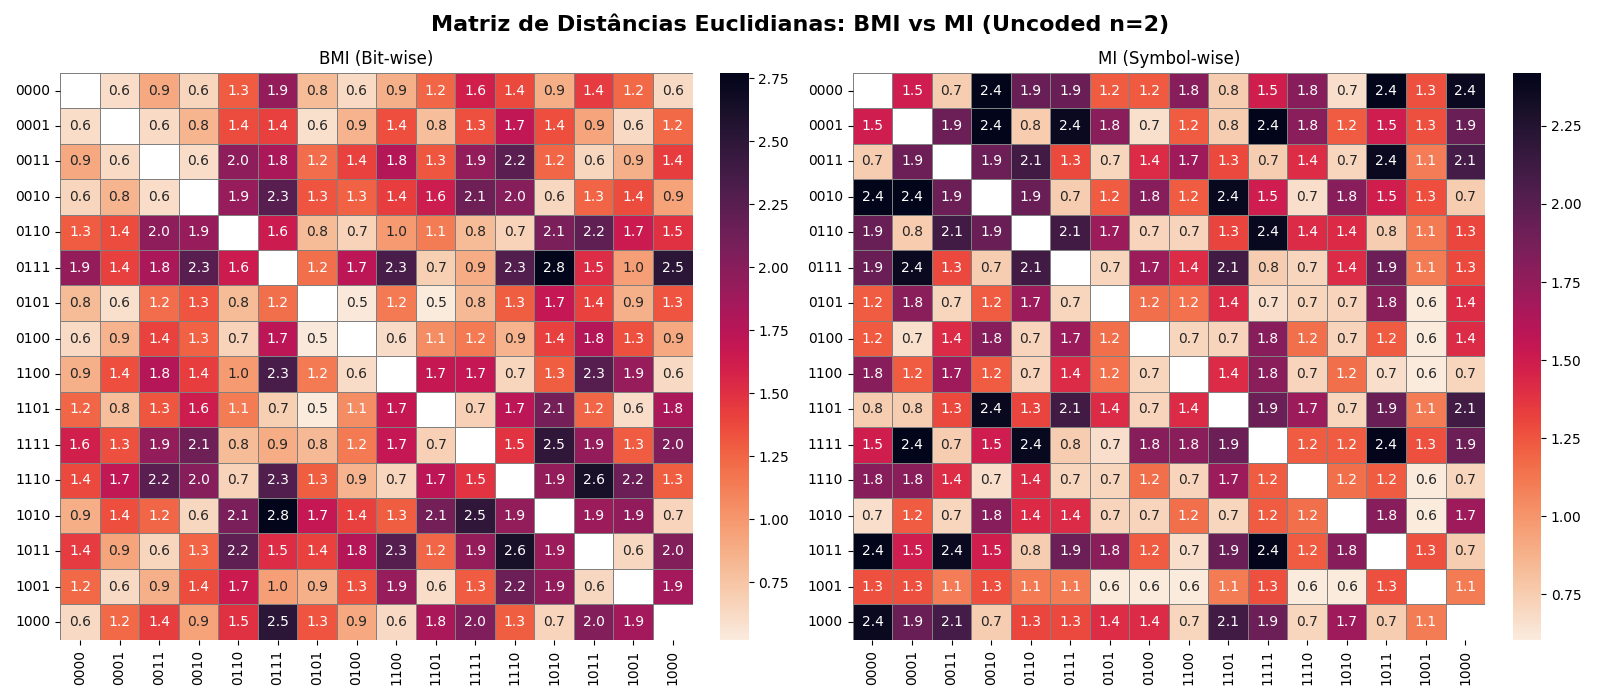
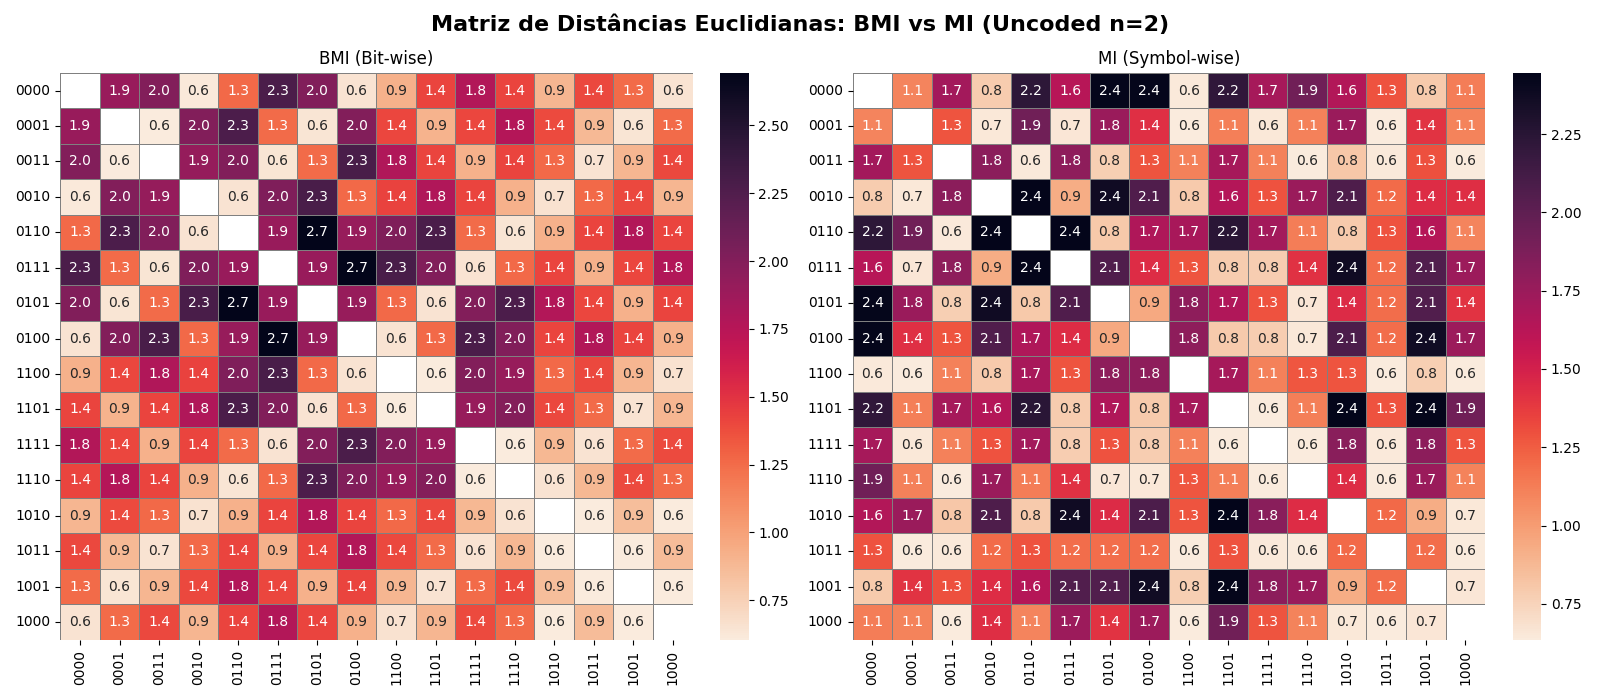
[Test]: Resultados em modelo não condificado.

diff --git a/2.Uncoded/Compare_MI_vs_BMI.py b/2.Uncoded/Compare_MI_vs_BMI.py
@@ -6,8 +6,8 @@ import matplotlib.pyplot as plt
 import tensorflow as tf
 
 
-from libs.val_model import train, recover_weights, aval_model, recover_points_model
-from libs.topology import Net_BMI, Net_MI
+from libs.val_model import recover_weights, aval_model, recover_points_model, train_curriculum
+from libs.topology import Net_Coded
 from libs.model_E2E import End2EndSystem
 from libs.AFF3CT_to_points import txt_to_dict
 
@@ -48,12 +48,12 @@ else:
 # Parâmetros do sistema
 # ============================================================================================ #
 BATCH_SIZE           = 25000
-NUM_TRAINING_ITER    = 8000
+NUM_TRAINING_ITER    = 250000
 
 k           = 4          # Bits de informação por símbolo
 n           = 2          # Dimensões reais do símbolo transmitido (I e Q)
 SNRdb_train = 8.0        # SNR de treinamento (dB)
-ebno_dbs    = np.arange(-4, 15, 1)
+ebno_dbs    = np.arange(-4, 14, 1)
 
 # Defina aqui os melhores valores de 'a' encontrados nos scripts Compare_BMI_FL.py e Compare_MI_FL.py
 # (Exemplo: se descobrir que a=2 é melhor para BMI e a=3 para MI, modifique estas variáveis)
@@ -76,13 +76,13 @@ os.makedirs(FIG_DIR,    exist_ok=True)
 # ============================================================================================ #
 models_info = {
     'BMI': {
-        'net': Net_BMI,
+        'net': Net_Coded,
         'bit_wise': True,
         'a': BEST_A_BMI,
         'label': f'Net_BMI (Bit-wise, a={BEST_A_BMI})'
     },
     'MI': {
-        'net': Net_MI,
+        'net': Net_Coded,
         'bit_wise': False,
         'a': BEST_A_MI,
         'label': f'Net_MI (Symbol-wise, a={BEST_A_MI})'
@@ -105,8 +105,8 @@ for model_name, info in models_info.items():
     is_bit_wise = info['bit_wise']
 
     with strategy.scope():
-        tx = net_topology.transmitter(k)
-        rx = net_topology.receiver(k, a=a)
+        tx = net_topology.encoder(k, n)
+        rx = net_topology.decoder(k, n, a, bmi=is_bit_wise)
 
         model_train = End2EndSystem(k, n, tx, rx, training=True,  bit_wise=is_bit_wise)
         model_eval  = End2EndSystem(k, n, tx, rx, training=False, bit_wise=is_bit_wise)
@@ -115,21 +115,23 @@ for model_name, info in models_info.items():
         lr_schedule = tf.keras.optimizers.schedules.CosineDecay(
             initial_learning_rate=1e-3,
             decay_steps=NUM_TRAINING_ITER,
-            alpha=1e-5   # LR mínima ao final do treino
+            alpha=1e-3   # LR mínima ao final do treino
         )
         optimizer = tf.keras.optimizers.Adam(learning_rate=lr_schedule)
 
         # Treinamento
         if FORCE_RETRAIN or not os.path.exists(local_weights):
-            train(model_train, SNRdb_train, optimizer, NUM_TRAINING_ITER, BATCH_SIZE,
-                local_weights, aval_training=True, steps_for_aval=2500, local_aval=local_aval)
+            train_curriculum(model_train, snr_start=0.0, snr_end=8.0, snr_step=2.0, patience=5000,
+                             optimizer=optimizer, epochs=NUM_TRAINING_ITER, batchs=BATCH_SIZE,
+                             local_weights=local_weights, aval_training=True, steps_for_aval=2500, local_aval=local_aval)
+            #    local_weights, aval_training=True, steps_for_aval=2500, local_aval=local_aval)
 
         # Recupera pesos
         model_eval = recover_weights(model_eval, local_weights)
 
     # Avaliação Monte Carlo
     if FORCE_RETRAIN or not os.path.exists(local_ber_ser):
-        aval_model(model_eval, ebno_dbs, max_iter=750000, block_errors=500,
+        aval_model(model_eval, ebno_dbs, max_iter=150000, block_errors=1000,
                    graph_mode="xla", local=local_ber_ser)
 
     ber_dict, ser_dict = recover_points_model(local_ber_ser)

diff --git a/2.Uncoded/Visualizar_Constelacao.py b/2.Uncoded/Visualizar_Constelacao.py
@@ -5,7 +5,7 @@ import matplotlib.pyplot as plt
 import seaborn as sns
 import tensorflow as tf
 from libs.val_model import recover_weights
-from libs.topology import Net_BMI, Net_MI
+from libs.topology import Net_Coded
 from libs.model_E2E import End2EndSystem
 from scipy.spatial.distance import cdist
 
@@ -17,14 +17,14 @@ WEIGHTS_DIR_BMI = "./Modelos/Pesos/FullyConnected/BMI"
 WEIGHTS_DIR_MI = "./Modelos/Pesos/FullyConnected/MI"
 
 # Modelos (a=2 para ambos)
-bmi_tx = Net_BMI.transmitter(k)
-bmi_rx = Net_BMI.receiver(k, a=2)
+bmi_tx = Net_Coded.encoder(k, n)
+bmi_rx = Net_Coded.decoder(k, n, a=2, bmi=True)
 model_bmi = End2EndSystem(k, n, bmi_tx, bmi_rx, training=False, bit_wise=True)
 _ = model_bmi(1, 10.0)
 model_bmi = recover_weights(model_bmi, f"{WEIGHTS_DIR_BMI}/weights-BMI-k4-n2-a2")
 
-mi_tx = Net_MI.transmitter(k)
-mi_rx = Net_MI.receiver(k, a=2)
+mi_tx = Net_Coded.encoder(k, n)
+mi_rx = Net_Coded.decoder(k, n, a=2, bmi=False)
 model_mi = End2EndSystem(k, n, mi_tx, mi_rx, training=False, bit_wise=False)
 _ = model_mi(1, 10.0)
 model_mi = recover_weights(model_mi, f"{WEIGHTS_DIR_MI}/weights-MI-k4-n2-a2")

diff --git a/libs/topology.py b/libs/topology.py
@@ -263,7 +263,8 @@ class Receiver_BMI(Layer):
     def __init__(self, k, a=0):
         super().__init__()
         hidden_size = 2 ** (k + a)
-        self.dense_hidden = Dense(hidden_size, activation='relu')
+        self.dense_hidden1 = Dense(hidden_size, activation='relu')
+        self.dense_hidden2 = Dense(hidden_size, activation='relu')
         self.dense_output = Dense(k, activation=None)
 
     def call(self, y, training=False):
@@ -272,7 +273,8 @@ class Receiver_BMI(Layer):
         Saída:   Tensor de logits de tamanho (batch, k).
         """
 
-        z = self.dense_hidden(y)
+        z = self.dense_hidden1(y)
+        z = self.dense_hidden2(z)
         z = self.dense_output(z)
         return z
 

diff --git a/libs/val_model.py b/libs/val_model.py
@@ -117,8 +117,8 @@ def train_curriculum(model_train, snr_start, snr_end, snr_step, patience, optimi
         else:
             ema_loss = 0.99 * ema_loss + 0.01 * current_loss
             
-        # Verifica estagnação da loss (melhoria de pelo menos 1% relativa à grandeza atual)
-        min_improvement = ema_loss * 0.001
+        # Verifica estagnação da loss (melhoria de pelo menos 0.1% relativa à grandeza atual)
+        min_improvement = ema_loss * 0.0001
         if ema_loss < best_loss - min_improvement:
             best_loss = ema_loss
             wait = 0
